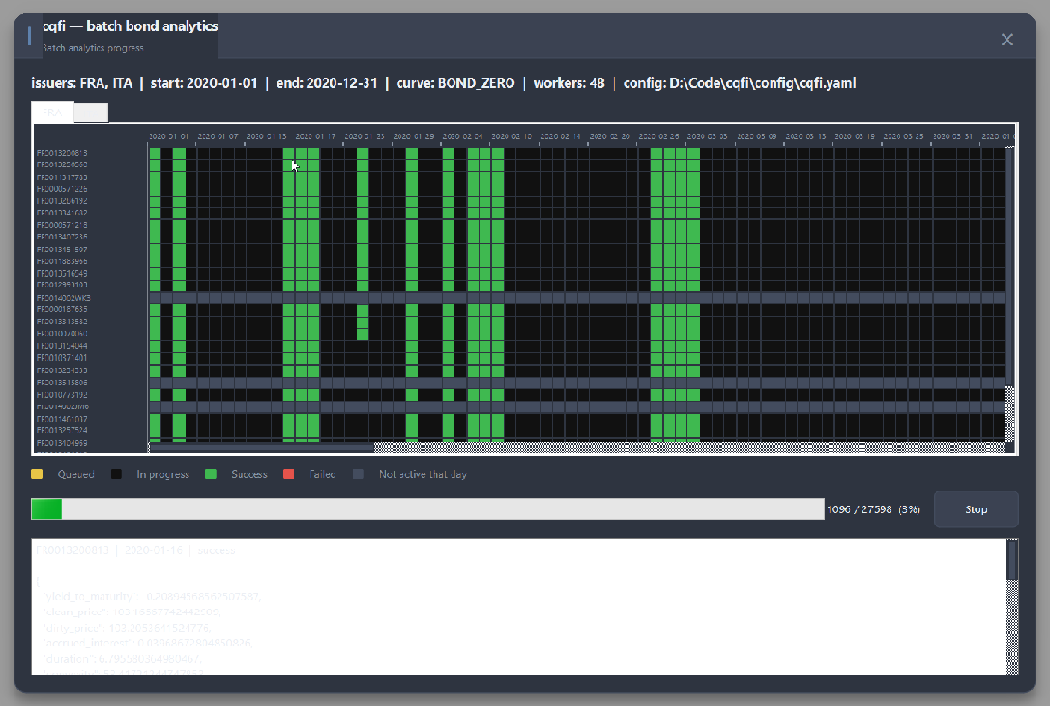
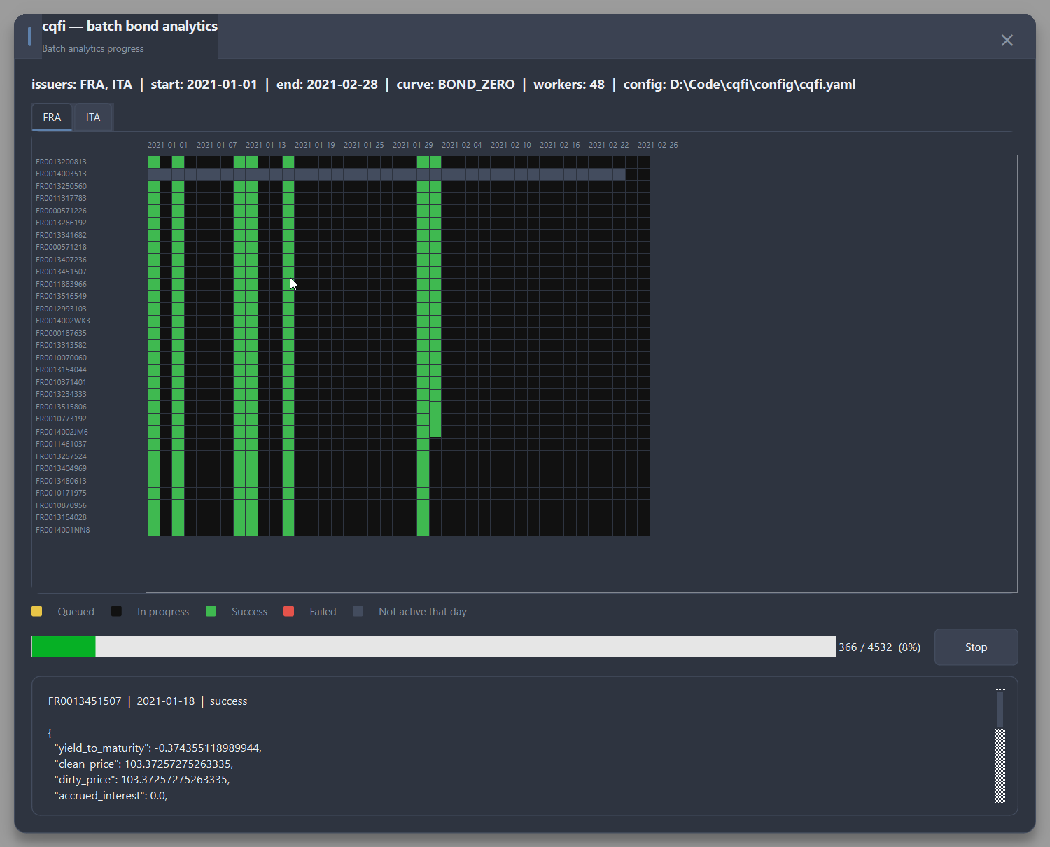
Refactor batch processing cancellation logic and add test for mid-flight cancellation
- Updated `BatchEngine` and `FutureBatchEngine` classes to improve the cancellation logic, ensuring that only still-queued work is cancelled when a stop event is triggered.
- Introduced a new test case to verify that mid-flight cancellations correctly handle queued work items, preventing them from running to completion.
- Added a new utility function to simulate a slow computation for testing purposes, enhancing the reliability of the test suite.
- Updated the batch bonds GUI asset to reflect recent design changes.

These modifications enhance the robustness of batch processing and improve test coverage for cancellation scenarios.

diff --git a/tests/test_batch_engine.py b/tests/test_batch_engine.py
@@ -2,8 +2,10 @@
 
 from __future__ import annotations
 
+import functools
 import sqlite3
 import threading
+import time
 from concurrent.futures import Future
 from datetime import date
 from pathlib import Path
@@ -56,6 +58,25 @@ def _fake_compute_batch(
             BondCellPayload(bond_key=key, success=True, request=request, bond_metrics=metrics)
         )
     return results
+
+
+def _slow_compute_batch_marked(
+    marker_path: str,
+    issuer_code: str,
+    trade_date: date,
+    bond_rows: list[dict],
+    curve_label: str,
+) -> list[BondCellPayload]:
+    """Stand-in compute_fn: touches a marker file the instant it starts, then
+    sleeps briefly before completing normally.
+
+    Lets a test wait (by polling the marker) for a batch to genuinely be
+    executing inside a worker process before flipping ``stop_event`` —
+    deterministic, unlike guessing at a sleep duration.
+    """
+    Path(marker_path).write_text("started", encoding="utf-8")
+    time.sleep(1.0)
+    return _fake_compute_batch(issuer_code, trade_date, bond_rows, curve_label)
 
 
 def _bond(bond_id: str, maturity: date) -> Bond:
@@ -228,6 +249,70 @@ def test_run_stopped_before_dispatch_cancels_everything(tmp_path: Path):
     done = events[-1]
     assert isinstance(done, BatchDone)
     assert done.cancelled is True
+
+
+def test_run_stopped_mid_flight_cancels_still_queued_work(tmp_path: Path):
+    """Stop mid-run must not degenerate into running the whole plan to completion.
+
+    All work items are submitted to the executor upfront (see engine.py), so
+    a naive "wait for everything in ``pending``" drain on stop would silently
+    let the entire batch finish. With ``workers=1`` and several work items,
+    only the one item a worker has already picked up should be allowed to
+    finish; the rest must be cancelled before they ever run.
+    """
+    settings = _settings(tmp_path)
+    trade_date = date(2020, 1, 2)
+    marker = tmp_path / "started.marker"
+
+    total_items = 6
+    work_items = tuple(
+        WorkItem(issuer="FRA", trade_date=trade_date, bonds=(_bond(f"OK{i}", date(2029, 1, 1)),))
+        for i in range(total_items)
+    )
+    plan = BatchPlan(
+        issuer_plans=(
+            IssuerPlan(
+                issuer="FRA",
+                trade_dates=(trade_date,),
+                bonds=tuple(b for wi in work_items for b in wi.bonds),
+                work_items=work_items,
+            ),
+        )
+    )
+
+    stop_event = threading.Event()
+    events = []
+
+    def _stop_once_started() -> None:
+        deadline = time.monotonic() + 10
+        while not marker.exists() and time.monotonic() < deadline:
+            time.sleep(0.02)
+        stop_event.set()
+
+    threading.Thread(target=_stop_once_started, daemon=True).start()
+
+    BatchEngine().run(
+        plan,
+        settings,
+        workers=1,
+        curve_label="BOND_ZERO",
+        on_event=events.append,
+        stop_event=stop_event,
+        compute_fn=functools.partial(_slow_compute_batch_marked, str(marker)),
+        worker_initializer=_noop_initializer,
+    )
+
+    done = events[-1]
+    assert isinstance(done, BatchDone)
+    assert done.cancelled is True
+    assert done.total == total_items
+    # Only the batch(es) a worker had already picked up may complete; the
+    # rest (still queued behind the single worker) must be cancelled outright.
+    # A little slack (ProcessPoolExecutor buffers a couple of extra calls
+    # beyond max_workers) keeps this robust across Python versions.
+    assert done.completed <= 2
+    cell_done = [e for e in events if isinstance(e, CellDone)]
+    assert len(cell_done) == done.completed
 
 
 # ── also_cache: dual write to quant_cache_db (used by the /batch command) ──

diff --git a/src/cqfi/batch/future_engine.py b/src/cqfi/batch/future_engine.py
@@ -106,11 +106,16 @@ class FutureBatchEngine:
                 while pending:
                     if stop_event is not None and stop_event.is_set():
                         cancelled = True
-                        # Drain all remaining futures: process results and don't submit new work.
-                        # We want to persist and emit events for all in-flight work, so we wait
-                        # for all remaining futures to complete rather than abandoning them.
-                        while pending:
-                            done, pending = wait(pending, timeout=0.5)
+                        # All futures were submitted upfront, so most of
+                        # ``pending`` is likely still sitting in the executor's
+                        # internal queue rather than actually running.
+                        # future.cancel() succeeds for those (they never start,
+                        # never get a result) and fails (returns False) for
+                        # ones a worker has already picked up — those we still
+                        # have to wait for since we can't interrupt them mid-run.
+                        still_running = {f for f in pending if not f.cancel()}
+                        while still_running:
+                            done, still_running = wait(still_running, timeout=0.5)
                             for future in done:
                                 completed = self._handle_result(
                                     future, future_to_item[future], registry,

diff --git a/src/cqfi/batch/engine.py b/src/cqfi/batch/engine.py
@@ -112,11 +112,16 @@ class BatchEngine:
                 while pending:
                     if stop_event is not None and stop_event.is_set():
                         cancelled = True
-                        # Drain all remaining futures: process results and don't submit new work.
-                        # We want to persist and emit events for all in-flight work, so we wait
-                        # for all remaining futures to complete rather than abandoning them.
-                        while pending:
-                            done, pending = wait(pending, timeout=0.5)
+                        # All futures were submitted upfront, so most of
+                        # ``pending`` is likely still sitting in the executor's
+                        # internal queue rather than actually running.
+                        # future.cancel() succeeds for those (they never start,
+                        # never get a result) and fails (returns False) for
+                        # ones a worker has already picked up — those we still
+                        # have to wait for since we can't interrupt them mid-run.
+                        still_running = {f for f in pending if not f.cancel()}
+                        while still_running:
+                            done, still_running = wait(still_running, timeout=0.5)
                             for future in done:
                                 completed = self._handle_result(
                                     future, future_to_item[future], registry,
